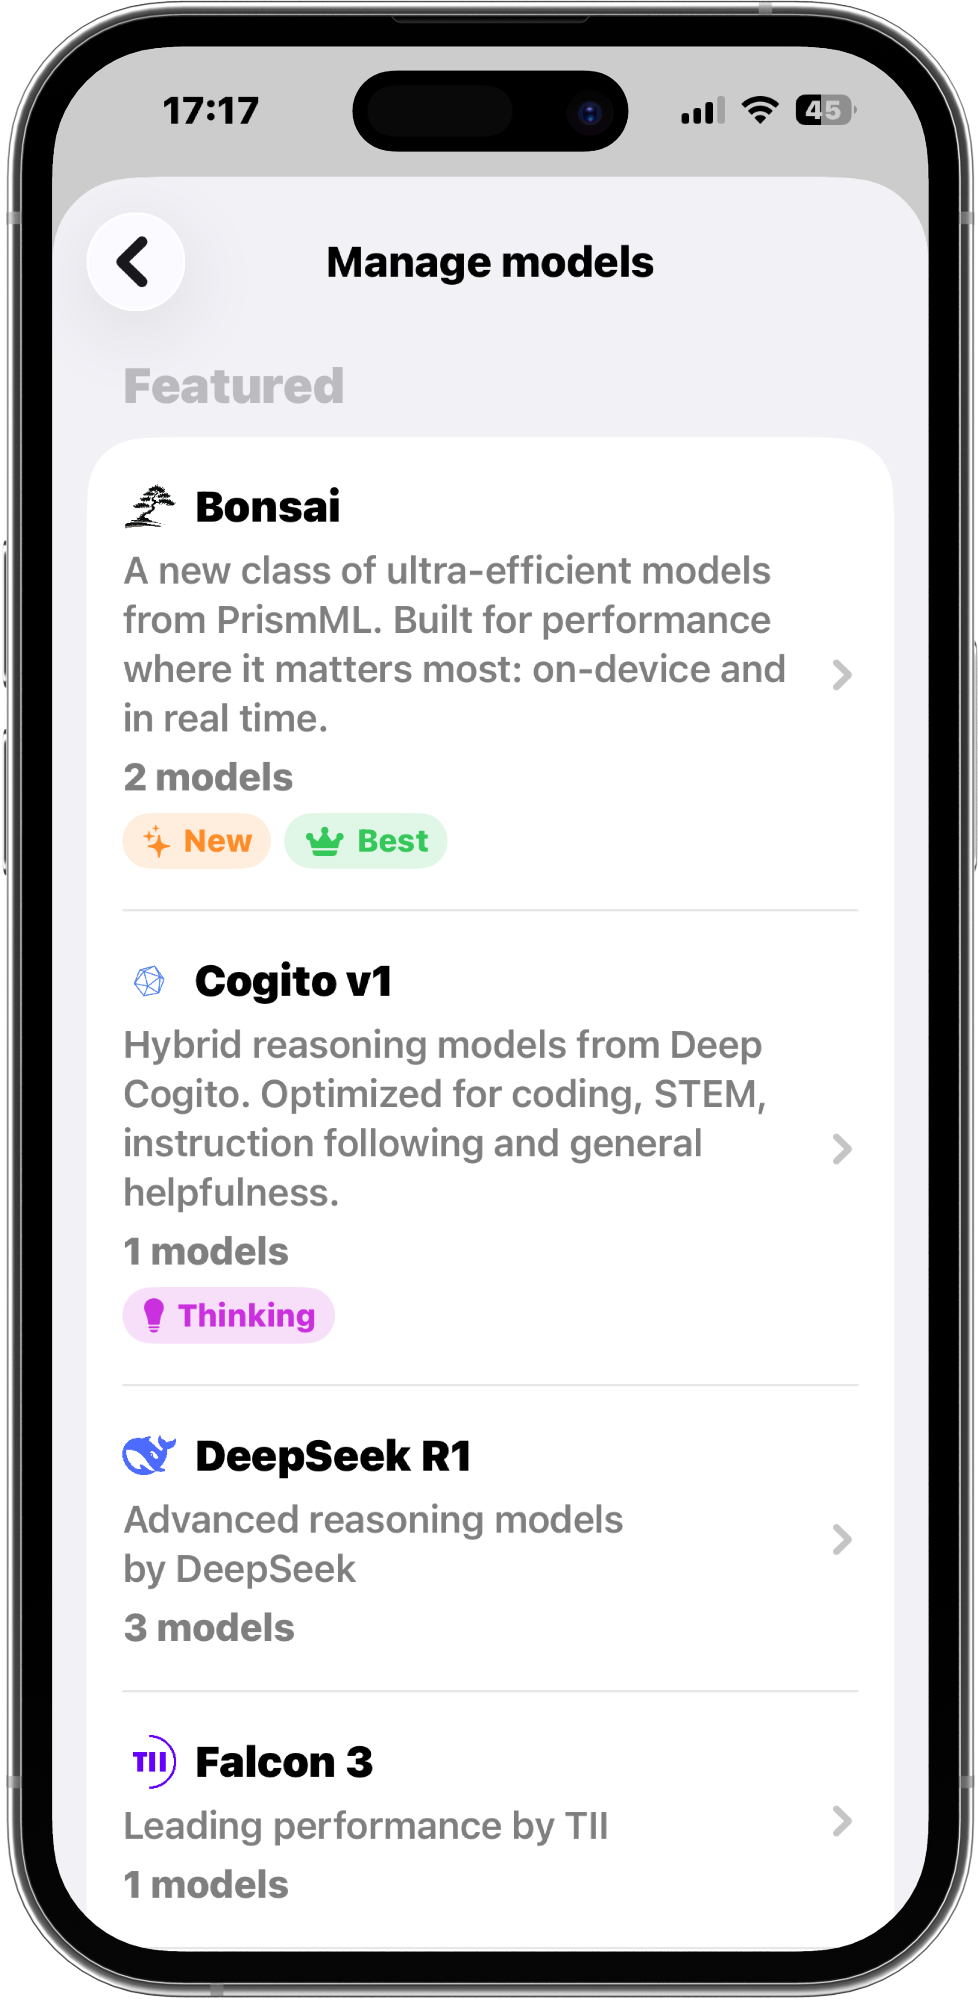
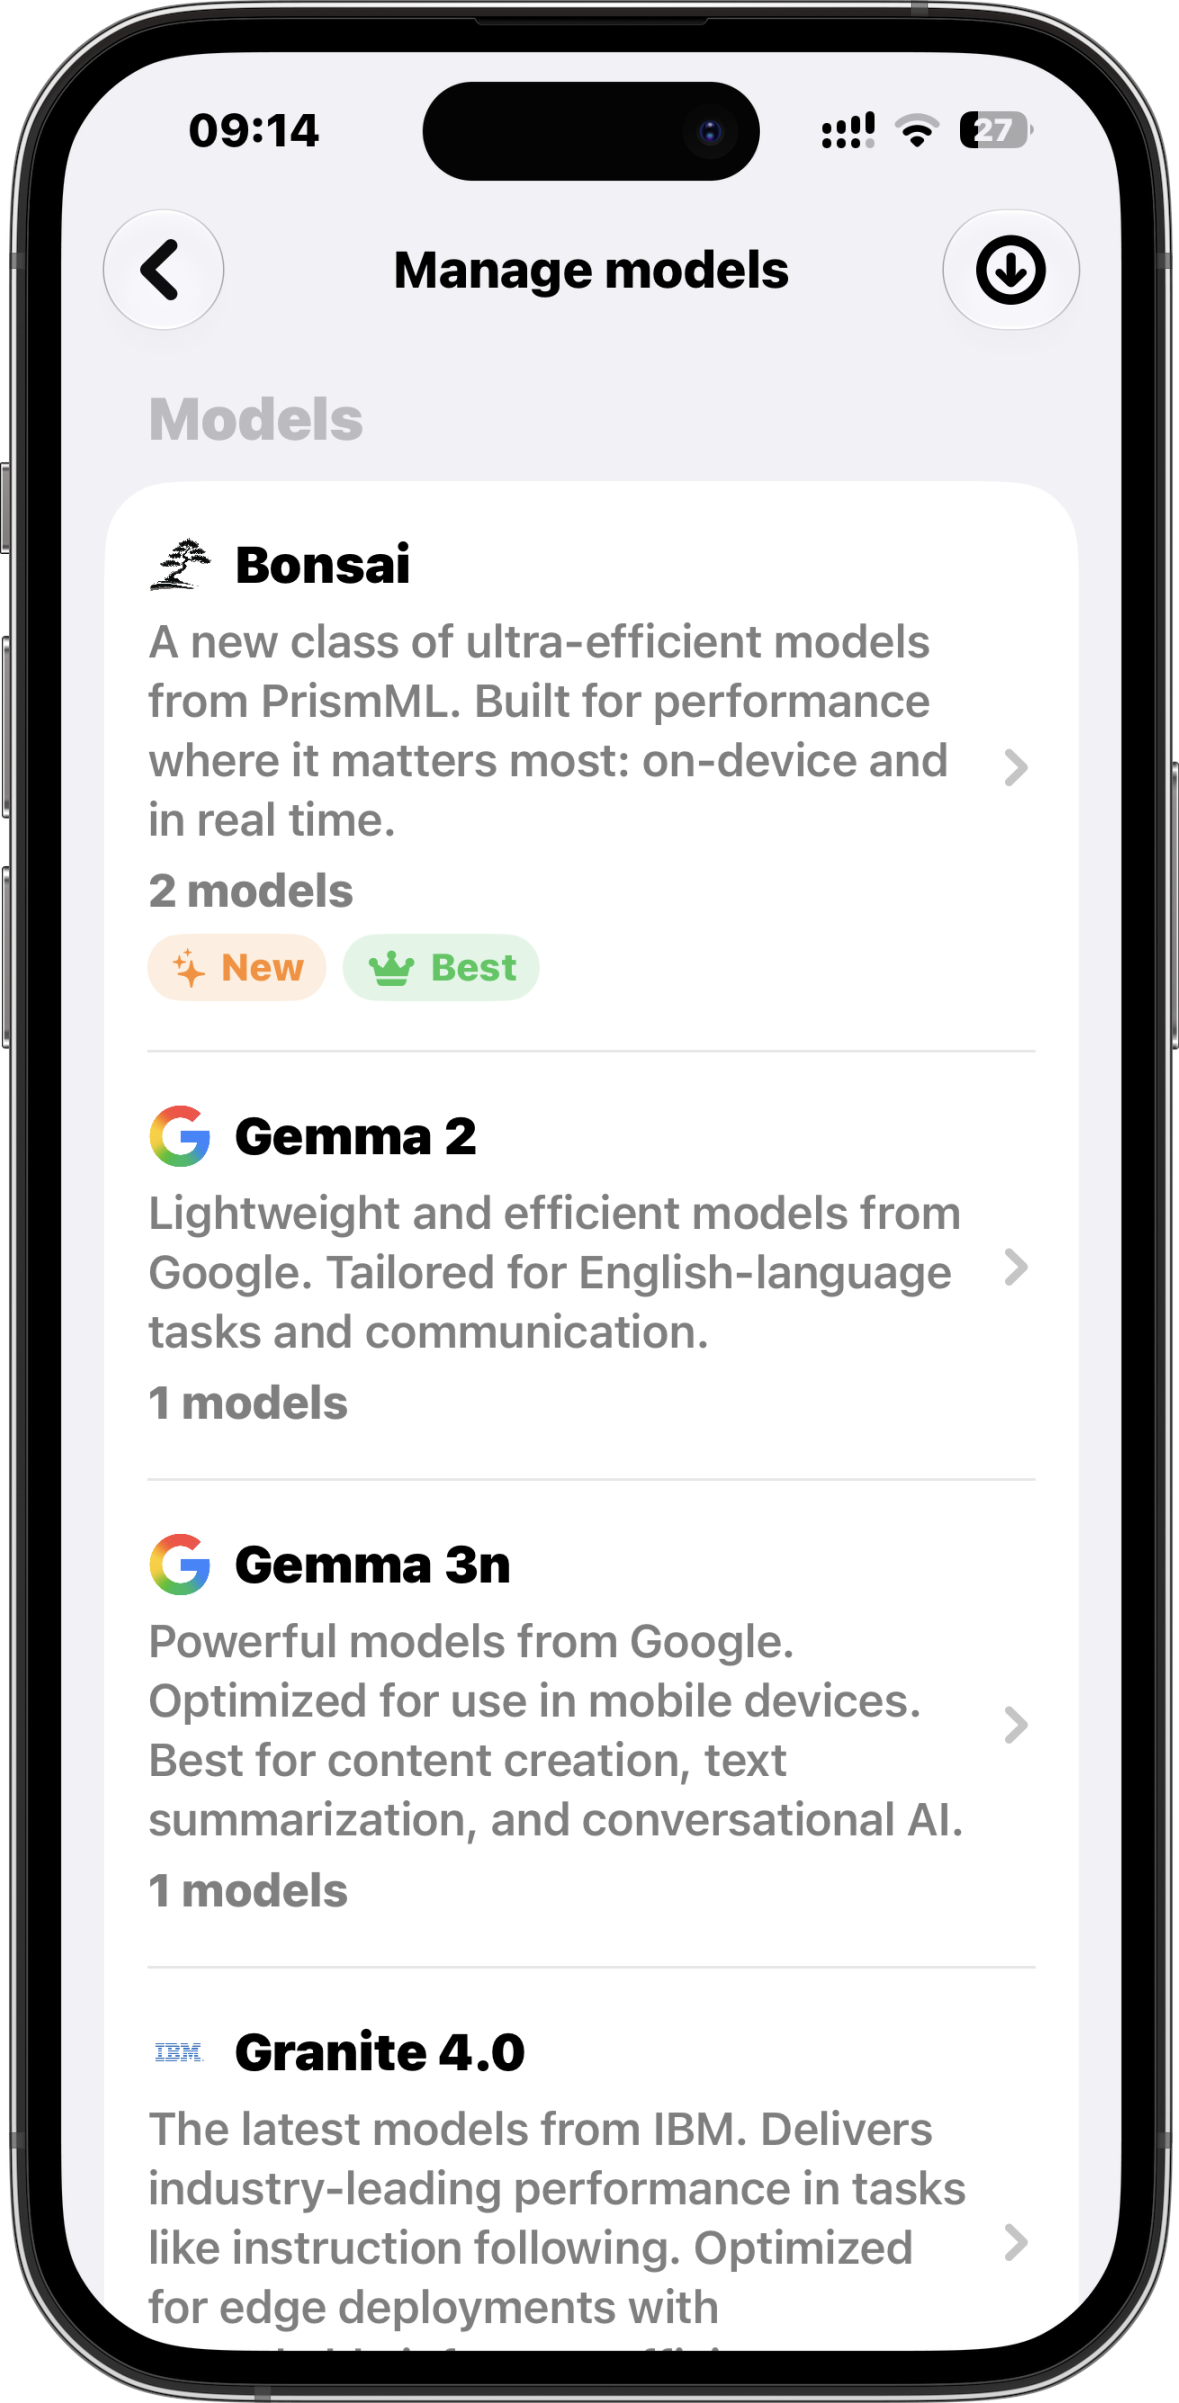
Update models, fix imports, and available features
- Replace DeepSeek with MiniCPM 5 (OpenBMB)
- Remove Cogito model
- Fix tsconfig.json path alias for @/ imports
- Mark Vision and File Support as available (not coming soon)
- Center models grid layout
- Change blue accents to white
- Update logo to white

Changed region(s): [[0.0, 0.0, 1.0, 1.0], [0.8589, 0.899, 0.8896, 0.93], [0.8589, 0.31, 0.8896, 0.341]]

diff --git a/src/app/globals.css b/src/app/globals.css
@@ -12,8 +12,8 @@
 	--bg-card-hover: #27272a;
 	--text: #fafafa;
 	--text-muted: #a1a1aa;
-	--accent: #22d3ee;
-	--accent2: #3b82f6;
+	--accent: #ffffff;
+	--accent2: #d4d4d8;
 	--border: #27272a;
 	--radius: 16px;
 }
@@ -83,6 +83,7 @@ a:hover {
 .nav-brand img {
 	width: 36px;
 	height: 36px;
+	filter: brightness(0) invert(1);
 }
 
 .nav-links {
@@ -231,7 +232,7 @@ a:hover {
 
 .hero-cta:hover {
 	transform: translateY(-2px);
-	box-shadow: 0 8px 32px rgba(34, 211, 238, 0.25);
+	box-shadow: 0 8px 32px rgba(255, 255, 255, 0.25);
 	color: #000;
 }
 
@@ -293,7 +294,7 @@ a:hover {
 	width: 48px;
 	height: 48px;
 	border-radius: 12px;
-	background: linear-gradient(135deg, rgba(34, 211, 238, 0.15), rgba(59, 130, 246, 0.15));
+	background: linear-gradient(135deg, rgba(255, 255, 255, 0.15), rgba(255, 255, 255, 0.15));
 	display: flex;
 	align-items: center;
 	justify-content: center;
@@ -324,7 +325,7 @@ a:hover {
 	letter-spacing: 0.05em;
 	padding: 3px 8px;
 	border-radius: 6px;
-	background: rgba(34, 211, 238, 0.12);
+	background: rgba(255, 255, 255, 0.12);
 	color: var(--accent);
 	white-space: nowrap;
 }
@@ -336,9 +337,33 @@ a:hover {
 }
 
 .models-grid {
-	display: grid;
-	grid-template-columns: repeat(4, 1fr);
+	display: flex;
+	flex-wrap: wrap;
 	gap: 16px;
+	justify-content: center;
+}
+
+.models-grid > * {
+	flex: 0 0 calc(25% - 12px);
+	min-width: 140px;
+}
+
+@media (max-width: 992px) {
+	.models-grid > * {
+		flex: 0 0 calc(33.333% - 11px);
+	}
+}
+
+@media (max-width: 768px) {
+	.models-grid > * {
+		flex: 0 0 calc(50% - 8px);
+	}
+}
+
+@media (max-width: 480px) {
+	.models-grid > * {
+		flex: 0 0 100%;
+	}
 }
 
 .model-card {
@@ -544,7 +569,7 @@ a:hover {
 	letter-spacing: 0.05em;
 	padding: 4px 10px;
 	border-radius: 6px;
-	background: rgba(34, 211, 238, 0.12);
+	background: rgba(255, 255, 255, 0.12);
 	color: var(--accent);
 	margin-left: auto;
 }
@@ -647,7 +672,7 @@ a:hover {
 	display: flex;
 	align-items: center;
 	justify-content: center;
-	background: linear-gradient(135deg, rgba(34, 211, 238, 0.15), rgba(59, 130, 246, 0.15));
+	background: linear-gradient(135deg, rgba(255, 255, 255, 0.15), rgba(255, 255, 255, 0.15));
 	border-radius: 8px;
 	flex-shrink: 0;
 }
@@ -823,14 +848,14 @@ a:hover {
 	background: transparent;
 	border: none;
 	outline: none;
-	box-shadow: 0 0 40px rgba(34, 211, 238, 0.2), 0 0 80px rgba(59, 130, 246, 0.12);
+	box-shadow: 0 0 40px rgba(255, 255, 255, 0.2), 0 0 80px rgba(255, 255, 255, 0.12);
 	border-radius: 8px;
 	transition: box-shadow 0.3s, transform 0.3s;
 	cursor: not-allowed;
 }
 
 .coming-soon-cta:hover {
-	box-shadow: 0 0 60px rgba(34, 211, 238, 0.35), 0 0 100px rgba(59, 130, 246, 0.2);
+	box-shadow: 0 0 60px rgba(255, 255, 255, 0.35), 0 0 100px rgba(255, 255, 255, 0.2);
 	transform: translateY(-2px);
 }
 
@@ -872,6 +897,7 @@ a:hover {
 .footer-brand img {
 	width: 28px;
 	height: 28px;
+	filter: brightness(0) invert(1);
 }
 
 .footer-links {
@@ -977,15 +1003,15 @@ a:hover {
 	align-items: center;
 	gap: 10px;
 	padding: 12px 20px;
-	background: linear-gradient(135deg, rgba(34, 211, 238, 0.08), rgba(59, 130, 246, 0.08));
-	border: 1px solid rgba(34, 211, 238, 0.2);
+	background: linear-gradient(135deg, rgba(255, 255, 255, 0.08), rgba(255, 255, 255, 0.08));
+	border: 1px solid rgba(255, 255, 255, 0.2);
 	border-radius: 999px;
 	transition: border-color 0.3s, box-shadow 0.3s;
 }
 
 .coming-soon-device:hover {
 	border-color: var(--accent);
-	box-shadow: 0 0 20px rgba(34, 211, 238, 0.15);
+	box-shadow: 0 0 20px rgba(255, 255, 255, 0.15);
 }
 
 .coming-soon-device i {
@@ -1005,7 +1031,7 @@ a:hover {
 	letter-spacing: 0.05em;
 	padding: 4px 10px;
 	border-radius: 999px;
-	background: rgba(34, 211, 238, 0.15);
+	background: rgba(255, 255, 255, 0.15);
 	color: var(--accent);
 }
 

diff --git a/src/app/page.tsx b/src/app/page.tsx
@@ -11,24 +11,23 @@ const models = [
   { name: "Llama", description: "Meta's flagship family", logo: "/images/meta-logo.png", alt: "Meta Llama" },
   { name: "Gemma", description: "Google's lightweight AI", logo: "/images/google-logo.png", alt: "Google Gemma" },
   { name: "SmolLM", description: "Hugging Face models", logo: "/images/huggingface-logo.png", alt: "Hugging Face SmolLM" },
-  { name: "DeepSeek", description: "Reasoning & coding", logo: "/images/deepseek-logo.png", alt: "DeepSeek" },
+  { name: "MiniCPM 5", description: "OpenBMB's reasoning & coding", logo: "/images/OpenBMB.png", alt: "OpenBMB MiniCPM 5" },
   { name: "Qwen", description: "Alibaba multilingual", logo: "/images/qwen-logo.png", alt: "Qwen" },
   { name: "Granite", description: "IBM enterprise AI", logo: "/images/ibm-logo.png", alt: "IBM Granite" },
-  { name: "Cogito", description: "Reasoning-focused", logo: "/images/cogito-logo.png", alt: "Deep Cogito" },
   { name: "LFM", description: "Liquid Foundation Models", logo: "/images/liquid-logo.png", alt: "Liquid AI LFM", white: true },
 ];
 
 const features = [
   { icon: "fa-solid fa-comments", title: "Text Conversations", description: "Chat with powerful AI models directly on your device. Fast, responsive, and completely offline." },
-  { icon: "fa-solid fa-eye", title: "Vision", description: "Vision-capable models available for download in-app. Vision support coming soon.", comingSoon: true },
+  { icon: "fa-solid fa-eye", title: "Vision", description: "Vision-capable models available for download in-app. Analyze images directly on your device." },
   { icon: "fa-solid fa-microphone-lines", title: "Voice Input", description: "Speak your prompts instead of typing. Hands-free interaction that's fast and natural. Coming soon.", comingSoon: true },
-  { icon: "fa-solid fa-folder-open", title: "File Support", description: "Drop files into your conversations for AI-powered summaries and analysis. Coming soon.", comingSoon: true },
+  { icon: "fa-solid fa-folder-open", title: "File Support", description: "Drop files into your conversations for AI-powered summaries and analysis." },
   { icon: "fa-solid fa-shield-halved", title: "100% Private", description: "Zero data collection. Zero cloud processing. Everything stays on your device, always." },
-  { icon: "fa-solid fa-puzzle-piece", title: "40+ Models", description: "Choose from Llama, Gemma, Qwen, DeepSeek, and more. Pick the right model for every task." },
+  { icon: "fa-solid fa-puzzle-piece", title: "40+ Models", description: "Choose from Llama, Gemma, Qwen, MiniCPM 5, and more. Pick the right model for every task." },
 ];
 
 const faqs = [
-  { question: "What AI models does Voltaire support?", answer: "Voltaire supports Meta Llama 3.2 & 3.1, Google Gemma 2, 3 & 3n, Qwen 2 VL, 2.5 & 3, DeepSeek R1, and more. All models run completely offline." },
+  { question: "What AI models does Voltaire support?", answer: "Voltaire supports Meta Llama 3.2 & 3.1, Google Gemma 2, 3 & 3n, Qwen 2 VL, 2.5 & 3, MiniCPM 5, and more. All models run completely offline." },
   { question: "Does it work without internet?", answer: "Yes! Once you download a model, everything runs locally. No internet connection needed for any AI processing." },
   { question: "Is my data private?", answer: "Absolutely. Your data never leaves your device. No cloud processing, no data collection, no tracking." },
   { question: "What devices are supported?", answer: "Voltaire is available on iPhone now. iPad and Mac support coming soon." },

diff --git a/src/app/layout.tsx b/src/app/layout.tsx
@@ -4,7 +4,7 @@ import "./globals.css";
 export const metadata: Metadata = {
   title: "Voltaire - Run AI Models Locally on iPhone, iPad & Mac",
   description:
-    "Run DeepSeek, Qwen, Gemma, Llama, and 40+ AI models directly on your iPhone, iPad, and Mac. 100% offline. Zero data collection. Complete privacy. Optimized for Apple Silicon with MLX.",
+    "Run MiniCPM 5, Qwen, Gemma, Llama, and 40+ AI models directly on your iPhone, iPad, and Mac. 100% offline. Zero data collection. Complete privacy. Optimized for Apple Silicon with MLX.",
   keywords: [
     "AI app",
     "local AI",
@@ -16,7 +16,7 @@ export const metadata: Metadata = {
     "Apple Silicon",
     "MLX",
     "LLM",
-    "DeepSeek",
+    "MiniCPM 5",
     "Qwen",
     "Gemma",
     "Llama",
@@ -32,7 +32,7 @@ export const metadata: Metadata = {
   openGraph: {
     title: "Voltaire - Run AI Models Locally on iPhone, iPad & Mac",
     description:
-      "Run DeepSeek, Qwen, Gemma, Llama, and 40+ AI models directly on your iPhone, iPad, and Mac. 100% offline. Zero data collection. Complete privacy.",
+      "Run MiniCPM 5, Qwen, Gemma, Llama, and 40+ AI models directly on your iPhone, iPad, and Mac. 100% offline. Zero data collection. Complete privacy.",
     type: "website",
     locale: "en_US",
     siteName: "Voltaire",
@@ -49,7 +49,7 @@ export const metadata: Metadata = {
     card: "summary_large_image",
     title: "Voltaire - Run AI Models Locally on iPhone, iPad & Mac",
     description:
-      "Run DeepSeek, Qwen, Gemma, Llama, and 40+ AI models directly on your iPhone, iPad, and Mac. 100% offline. Complete privacy.",
+      "Run MiniCPM 5, Qwen, Gemma, Llama, and 40+ AI models directly on your iPhone, iPad, and Mac. 100% offline. Complete privacy.",
     images: ["/images/og-image.png"],
     creator: "@voltaire",
   },
